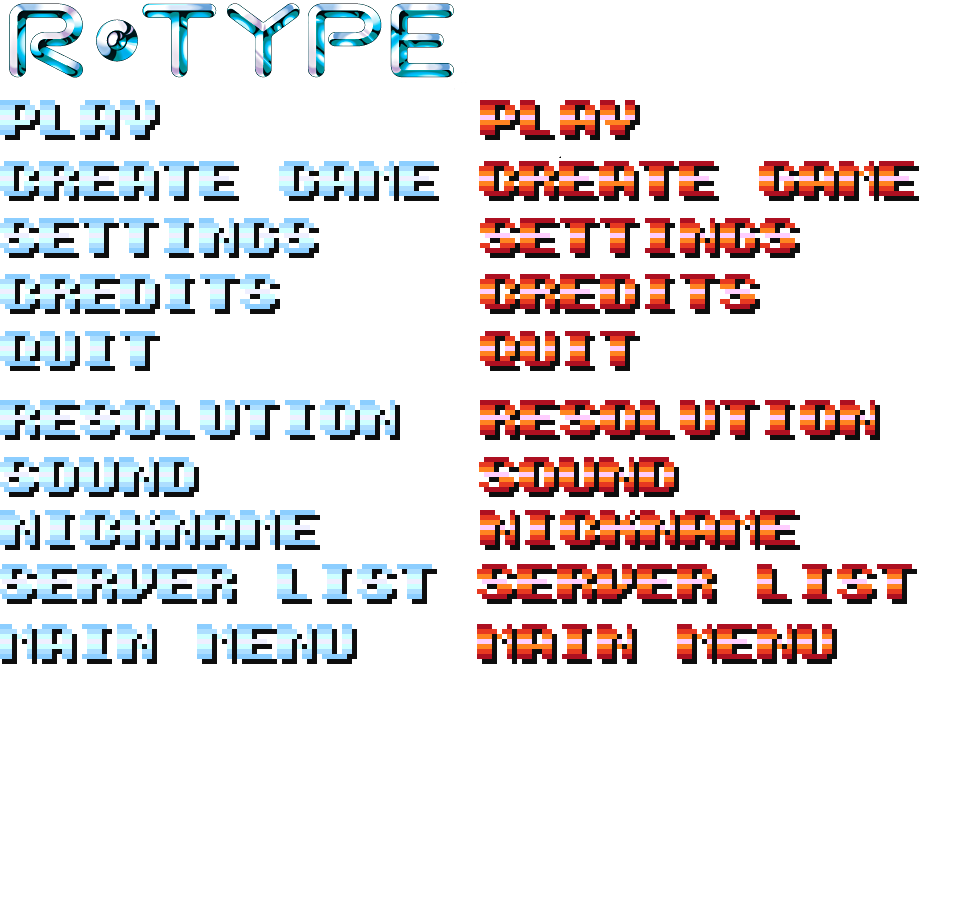
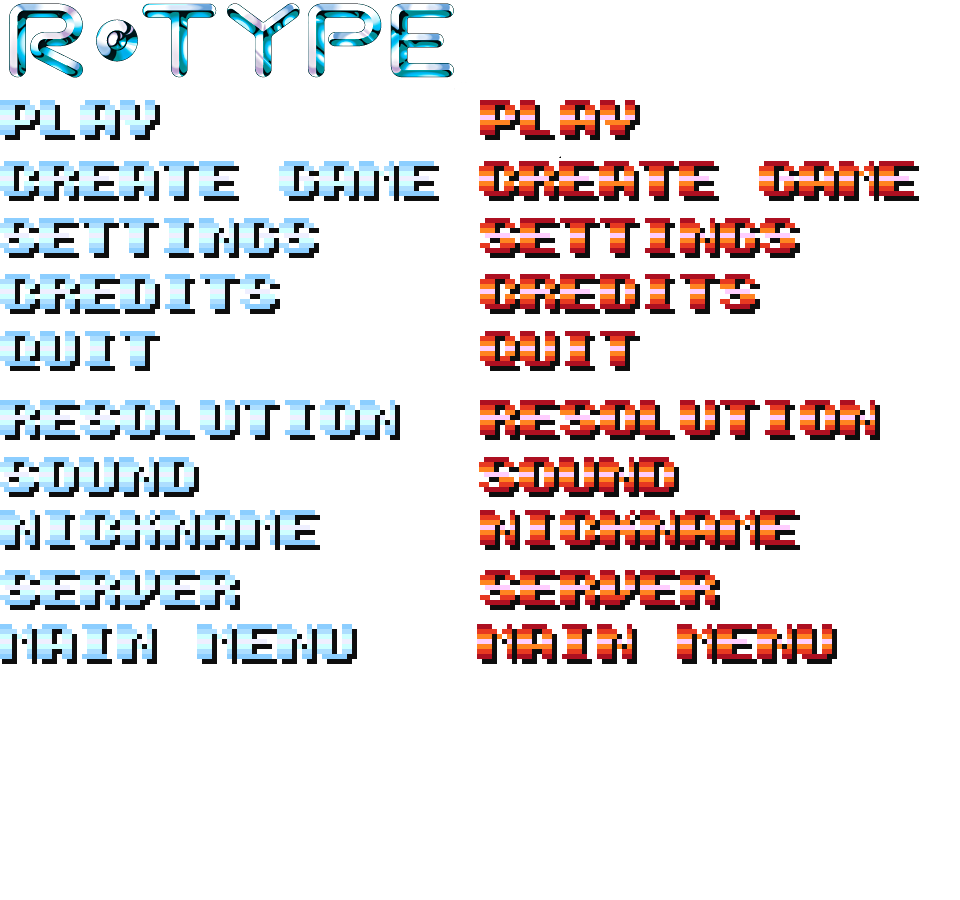
affichage fonctionnel, sauf parfois (mais c'est pas de ma faute)

diff --git a/Proj/RType/client/GameLoop.cpp b/Proj/RType/client/GameLoop.cpp
@@ -26,21 +26,29 @@ GameLoop::~GameLoop(void)
 
 }
 
+void	GameLoop::drawScreenState(void)
+{
+	std::list<std::pair<unsigned int, t_coord> >::iterator  it(this->_screenstate.elements.begin());
+	std::list<std::pair<unsigned int, t_coord> >::iterator  end(this->_screenstate.elements.end());
+
+	if (this->_screenstate.elements.size() > 0)
+	{
+		while (it != end)
+		{
+			this->displaySprite(it->second._posX, it->second._posY, static_cast<eSprites>(it->first));
+			++it;
+		}
+		//std::cout << "--- END SCREEN STATE ---" << std::endl;
+	}
+}
+
 void	GameLoop::handleScreenState(void *data)
 {
 	s_screen_state*	state(static_cast<s_screen_state*>(data));
-	std::list<std::pair<unsigned int, t_coord> >::iterator  it(state->elements.begin());
-	std::list<std::pair<unsigned int, t_coord> >::iterator  end(state->elements.end());
 
-	while (it != end)
-	{
-		this->displaySprite(it->second._posX, it->second._posY, static_cast<eSprites>(it->first));
-		std::cout << "\tSprite" << static_cast<eSprites>(it->first) << " at ("
-		<< it->second._posX << ", "
-		<< it->second._posY << ')' << std::endl;
-		++it;
-	}
-	std::cout << "--- END SCREEN STATE ---" << std::endl;
+	if (state->elements.size() == 0)
+		return;
+	this->_screenstate = *state;
 }
 
 void	GameLoop::handleStartLoading(void *data)
@@ -54,6 +62,10 @@ void	GameLoop::handleStartLoading(void *data)
 }
 
 void			GameLoop::defaultCallback(char opcode, IReadableSocket& sock)
+
+
+
+
 {
 	//std::cout << "default callbak opcode :" << (int)opcode << std::endl;
 }
@@ -89,22 +101,22 @@ void	GameLoop::manageEvent(bool *running, PlayerShip *player)
 	{
 		this->openBackMenu(running);
 	}
-	if (sf::Keyboard::isKeyPressed(sf::Keyboard::Down))
-	{
-		player->setPosY(player->getPosY() + 1);
-	}
-	if (sf::Keyboard::isKeyPressed(sf::Keyboard::Up))
-	{
-		player->setPosY(player->getPosY() - 1);
-	}
-	if (sf::Keyboard::isKeyPressed(sf::Keyboard::Left))
-	{
-		player->setPosX(player->getPosX() - 1);
-	}
-	if (sf::Keyboard::isKeyPressed(sf::Keyboard::Right))
-	{
-		player->setPosX(player->getPosX() + 1);
-	}
+	//if (sf::Keyboard::isKeyPressed(sf::Keyboard::Down))
+	//{
+	//	player->setPosY(player->getPosY() + 1);
+	//}
+	//if (sf::Keyboard::isKeyPressed(sf::Keyboard::Up))
+	//{
+	//	player->setPosY(player->getPosY() - 1);
+	//}
+	//if (sf::Keyboard::isKeyPressed(sf::Keyboard::Left))
+	//{
+	//	player->setPosX(player->getPosX() - 1);
+	//}
+	//if (sf::Keyboard::isKeyPressed(sf::Keyboard::Right))
+	//{
+	//	player->setPosX(player->getPosX() + 1);
+	//}
 }
 
 void	GameLoop::displaySprite(short x, short y, eSprites id)
@@ -113,6 +125,7 @@ void	GameLoop::displaySprite(short x, short y, eSprites id)
 
 	tmp.setPosition(x, y);
 	this->_window->draw(tmp);
+
 }
 
 //void	GameLoop::handleNetwork()
@@ -151,15 +164,17 @@ void	GameLoop::mainLoop(void)
 	std::cout << "after initnet" << std::endl;
 	while (running)
     {
+		this->_window->clear();
 		loopTimer.initialise();
 		this->handleNetwork();
         this->manageEvent(&running, &ship);
 		if (running)
 		{
-			this->_window->clear();
+			
 			bg.moveBackground();
 			this->_window->draw(bg.getSprite());
-			this->_window->draw(ship.getSprite());
+			this->drawScreenState();
+			//this->_window->draw(ship.getSprite());
 			this->_window->display();
 		}
 		execTime = loopTimer.getTimeBySec();

diff --git a/Proj/RType/client/SetIpButton.cpp b/Proj/RType/client/SetIpButton.cpp
@@ -1,0 +1,44 @@
+#include "SetIpButton.h"
+
+
+SetIpButton::SetIpButton(SpriteManager *sprmgr)
+{
+	this->setSprite(sprmgr->getSpritebyId(SETT_SRVL));
+	this->setSpriteOn(sprmgr->getSpritebyId(SETT_SRVL_ON));
+	this->_sett = new SettingsParser("assets/settings.ini");
+	this->_serv = this->_sett->getServer();
+}
+
+void	SetIpButton::action(sf::Keyboard::Key key, sf::RenderWindow *window, bool *running)
+{
+	switch (key)
+	{
+	case sf::Keyboard::BackSpace:
+		this->_serv = this->_serv.substr(0, this->_serv.length() - 1);
+		break;
+
+	}
+}
+
+void	SetIpButton::extraDisplay(unsigned int pos, unsigned int max, sf::RenderWindow *window)
+{
+	sf::Font font;
+	sf::Text text;
+	if (!font.loadFromFile("assets/arial.ttf"))
+	{
+	}
+	text.setFont(font);
+	text.setString(this->_serv);
+	text.setCharacterSize(30);
+	if (this->_highlight)
+		text.setColor(sf::Color::Magenta);
+	else
+		text.setColor(sf::Color::Cyan);
+	text.setPosition(static_cast<float>(SIZEX / 2) + 250,
+		250 + static_cast<float>(pos) * ((SIZEY - 250) / static_cast<float>(max)));
+	window->draw(text);
+}
+
+SetIpButton::~SetIpButton(void)
+{
+}

diff --git a/Proj/RType/client/Menu.cpp b/Proj/RType/client/Menu.cpp
@@ -80,7 +80,6 @@ void			Menu::menuLoop()
 	{
 		this->childAction();
 		sf::Event event;
-		Sleep(300);
         while (this->_window->pollEvent(event))
         {
 			if(event.type == sf::Event::Closed)
@@ -91,7 +90,9 @@ void			Menu::menuLoop()
 				this->decActive();
 			if (event.type == sf::Event::KeyPressed && event.key.code == sf::Keyboard::Down)
 				this->incActive();
-			if (event.type == sf::Event::KeyPressed && event.key.code == sf::Keyboard::Return)
+			if (event.type == sf::Event::KeyPressed && (event.key.code == sf::Keyboard::Return ||
+				(event.key.code >= sf::Keyboard::A && event.key.code <= sf::Keyboard::Num9) ||
+				event.key.code == sf::Keyboard::BackSpace || event.key.code == sf::Keyboard::Period))
 				this->_buttons[this->_active]->action(event.key.code, this->_window, &running);
 		}
 		this->_window->clear();

diff --git a/Proj/RType/client/SettingsMenu.cpp b/Proj/RType/client/SettingsMenu.cpp
@@ -1,0 +1,21 @@
+#include "SettingsMenu.h"
+#include "PlayButton.h"
+#include "SettingsButton.h"
+#include "CreditsButton.h"
+#include "BackMainButton.h"
+#include "SetIpButton.h"
+
+SettingsMenu::SettingsMenu(sf::RenderWindow *window, SpriteManager *spritemgr) : Menu(window, spritemgr)
+{
+	Packet p;
+	unsigned short res[2] = {1600, 900}; //recup via seufeumeul
+	this->_size = 2;
+	this->_buttons.resize(this->_size);
+	this->_buttons[0] = new SetIpButton(this->_spritemgr);
+	this->_buttons[1] = new BackMainButton(this->_spritemgr);
+	
+}
+
+SettingsMenu::~SettingsMenu(void)
+{
+}

diff --git a/Proj/RType/client/SettingsButton.cpp b/Proj/RType/client/SettingsButton.cpp
@@ -1,15 +1,18 @@
 #include "SettingsButton.h"
-
+#include "SettingsMenu.h"
 
 SettingsButton::SettingsButton(SpriteManager *sprmgr)
 {
 	this->setSprite(sprmgr->getSpritebyId(MENU_SETT));
 	this->setSpriteOn(sprmgr->getSpritebyId(MENU_SETT_ON));
+	this->_sprmgr = sprmgr;
 }
 
-void	SettingsButton::action(sf::Keyboard::Key, sf::RenderWindow *, bool *running)
+void	SettingsButton::action(sf::Keyboard::Key, sf::RenderWindow *window, bool *running)
 {
+	SettingsMenu	menu(window, this->_sprmgr);
 
+	menu.menuLoop();
 }
 
 SettingsButton::~SettingsButton(void)

diff --git a/Proj/RType/client/SetIpButton.h b/Proj/RType/client/SetIpButton.h
@@ -1,0 +1,17 @@
+#pragma once
+#include <string>
+#include "Button.h"
+#include "SettingsParser.h"
+
+class SetIpButton :
+	public Button
+{
+	sf::Sprite		_sprite;
+	SettingsParser	*_sett;
+	std::string		_serv;
+public:
+	SetIpButton(SpriteManager *);
+	virtual void	action(sf::Keyboard::Key, sf::RenderWindow *, bool *);
+	virtual void	extraDisplay(unsigned int, unsigned int, sf::RenderWindow *);
+	~SetIpButton(void);
+};

diff --git a/Proj/RType/client/GameLoop.h b/Proj/RType/client/GameLoop.h
@@ -24,6 +24,7 @@ private:
 	TCPSocketClient					*_tcpsock;
 	//eSocketType						_socktype;
 	Packet							_p;
+	s_screen_state					_screenstate;
 	
 public:
 	GameLoop(sf::RenderWindow*, TCPSocketClient*, short);
@@ -39,6 +40,7 @@ public:
 	void	mainLoop(void);
 	//void	drawWalls(void);
 	void	initNetwork(void);
+	void	drawScreenState(void);
 	~GameLoop(void);
 };
 

diff --git a/Proj/RType/client/SettingsButton.h b/Proj/RType/client/SettingsButton.h
@@ -1,8 +1,10 @@
 #pragma once
+#include "SpriteManager.h"
 #include "Button.h"
 class SettingsButton :
 	public Button
 {
+	SpriteManager	*_sprmgr;
 public:
 	SettingsButton(SpriteManager *);
 	virtual void	action(sf::Keyboard::Key, sf::RenderWindow *, bool *);

diff --git a/Proj/RType/client/SettingsMenu.h b/Proj/RType/client/SettingsMenu.h
@@ -1,0 +1,10 @@
+#pragma once
+#include "Menu.h"
+class SettingsMenu :
+	public Menu
+{
+public:
+	SettingsMenu(sf::RenderWindow *, SpriteManager *);
+	~SettingsMenu(void);
+};
+
